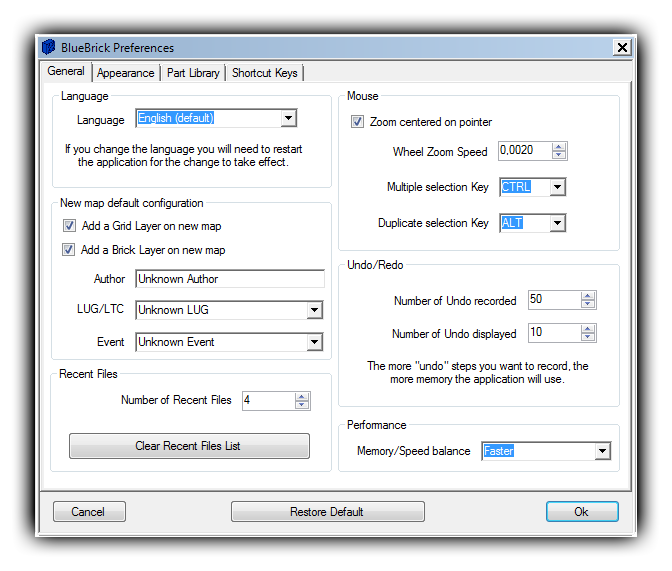
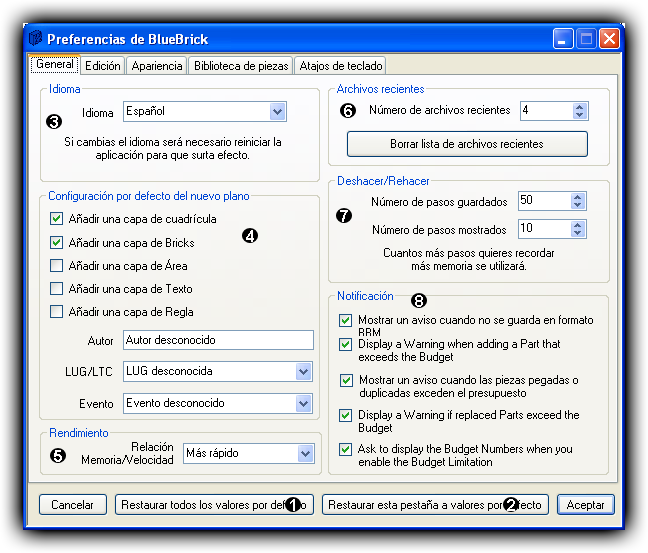
| update the generales preferences text and screenshot (all languages)

diff --git a/Help/fr/Preferences_General.htm b/Help/fr/Preferences_General.htm
@@ -10,18 +10,19 @@
 </head>
 <body>
 <h1>Préférences Générales</h1>
-<br>
 <center><img src="Preferences_General.png"></center>
 
-<p>La <b>Langue du logiciel</b>peut être changer dans le coin supérieur gauche. Le changement sera effectif pour presque tout le texte dans le logiciel. Vous devez cependant redémarrer BlueBrick afin que votre choix prenne effet. Les items qui ne sont pas affectés sont les onglets au dessus du panneau de pièces et les fenêtres qui dépendent de la langue de votre système d'exploitation (i.e. la palette de sélection des couleurs).</p>
+<p>La <b>Langue du logiciel</b> <font class="RefNumber">3</font> peut être changée dans le coin supérieur gauche. Le changement sera effectif pour presque tout les textes du logiciel. Vous devez cependant redémarrer BlueBrick afin que votre choix prenne effet. Les items qui ne sont pas affectés sont les onglets au dessus du panneau de pièces et les fenêtres qui dépendent de la langue de votre système d'exploitation (par exemple la palette de sélection des couleurs).</p>
 
-<p>Sauvegarder votre <b>Configuration par défaut</b> personnalise pour de nouveau plan peut vous faire économiser du temps pour vos prochain projets. Un calque de pièces et une grille sont ajouter par défaut. Pour changer les paramètres pour les champs Auteur, LUG/LTC et exposition dans un plan existant cliquez sur <font CLASS="path">&nbsp;vue &gt; informations générales...&nbsp;</font>.</p>
+<p>Choisir votre <b>Configuration par défaut</b> <font class="RefNumber">4</font> pour de nouveaux plans peut vous faire économiser du temps pour vos prochain projets. Un calque de pièces et une grille sont ajoutés par défaut. Vous pouvez entrer votre nom, le LUG/LTC auquel vous appartenez, et votre exposition favorite, de sorte que, chaque fois que vous créez un plan, ces informations seront affichées en filigrane dans le coin inférieur droit de votre plan. Pour changer les paramètres pour les champs Auteur, LUG/LTC et exposition dans un plan existant utilisez le menu <font CLASS="path">&nbsp;vue &gt; informations générales...&nbsp;</font>.</p>
 
-<p>La liste de <b>Fichiers Récents</b> est de 4 par défaut. Elle peut être augmenter jusqu’à un maximum de 20. Vous pouvez vider la liste en utilisant le bouton "Clear Recent File List" à n'importe quel moment. Notez que la liste une fois efface ne peut être rétablie.</p>
+<p>L'ajustement des <b>Performances</b> <font class="RefNumber">5</font> peut être important pour les ordinateurs moins récents. L'option "Rapide" est sélectionné par défaut. Vous pouvez changer celui-ci pour "Moins de mémoire" si vous notez que votre système devient plus lent ou instable durant l'utilisation. La majorité des ordinateurs devraient être capable de fonctionner en mode "Equilibré" ou "Rapide".</p>
 
-<p>La longueur de la liste <b>Annuler et Rétablir</b>peut être ajuste. Le maximum d'actions enregistrées est de 1000. Le nombre maximum d'action afficher est de 50. Prenez note que plus grande est le nombre d'opérations enregistrées, plus grande est la quantité de mémoire requise par le logiciel.</p>
+<p>La liste de <b>Fichiers Récents</b> <font class="RefNumber">6</font> est de 4 par défaut. Elle peut être augmentée jusqu’à un maximum de 20. Vous pouvez vider la liste en utilisant le bouton "Vider la liste des fichiers récents" à n'importe quel moment. Notez que la liste une fois éffacée ne peut être rétablie.</p>
 
-<p>L'ajustement des <b>Performances</b> peut être important pour les ordinateurs moins récents. L'options "balanced" est sélectionné par défaut. Vous pouvez changer celui-ci pour "Less Memory" si vous notez que votre système devient plus lent ou instable durant l'utilisation. La majorité des ordinateurs devraient être capable de fonctionner en mode "balanced" ou "faster".</p>
+<p>La longueur de la liste <b>Défaire/Refaire</b> <font class="RefNumber">7</font> peut être ajustée. Le maximum d'actions enregistrées est de 1000. Le nombre maximum d'actions affichées est de 50. Prenez note que plus grande est le nombre d'opérations enregistrées, plus grande est la quantité de mémoire requise par le logiciel.</p>
+
+<p>BlueBrick va parfois afficher un message d'avertissement que vous pouvez choisir d'ignorer dans le futur en cochant une case à cocher "d'oubli". Le cadre de <b>Notification</b> <font class="RefNumber">8</font> vous permet de rétablir les messages de notification que vous avez choisi d'ignorer, ou de désactiver quelques notifications à l'avance.</p>
 
 </body>
 </html>

diff --git a/Help/es/Preferences_General.htm b/Help/es/Preferences_General.htm
@@ -10,18 +10,19 @@
 </HEAD>
 <BODY>
 <H1>Preferencias generales</H1>
-<BR>
 <CENTER><IMG SRC="Preferences_General.png"></CENTER>
 
-<P>El <B>idioma del programa</B> se puede cambiar arriba a la izquierda. El cambio afectar&aacute; casi todo el texto del programa. Deber&aacute;s reiniciar BlueBrick para que los cambios tengan efecto.  Los elementos que no e ver&aacute;n afectados por el cambio son las pesta&ntilde;as encima del &aacute;rea de piezas y ventanas que est&aacute;n relacionadas directamente con el idioma de tu sistema operativo (por ejemplo la paleta de selecci&oacute;n colores).</P>
+<P>El <B>idioma del programa</B> <font class="RefNumber">3</font> se puede cambiar arriba a la izquierda. El cambio afectar&aacute; casi todo el texto del programa. Deber&aacute;s reiniciar BlueBrick para que los cambios tengan efecto.  Los elementos que no e ver&aacute;n afectados por el cambio son las pesta&ntilde;as encima del &aacute;rea de piezas y ventanas que est&aacute;n relacionadas directamente con el idioma de tu sistema operativo (por ejemplo la paleta de selecci&oacute;n colores).</P>
 
-<P>Preparar tu <B>Configuraci&oacute;n por defecto</B> para nuevos trazados puede ahorrar tiempo m&aacute;s adelante. Por defecto se a&ntilde;aden una capa de cuadr&iacute;cula y una de ladrillos. Para cambiar la informaci&oacute;n de Autor, LUG/LTC y Evento en un mapa existente ve a<FONT CLASS="path">&nbsp;ver &gt; informaci&oacute;n general...&nbsp;</FONT>.</P>
+<P>Preparar tu <B>Configuraci&oacute;n por defecto</B> <font class="RefNumber">4</font> para nuevos trazados puede ahorrar tiempo m&aacute;s adelante. Por defecto se a&ntilde;aden una capa de cuadr&iacute;cula y una de ladrillos. <div class="ToTranslate">You can set you name, the LUG/LTC you belongs to, and your favorite Event, such as, each time you create a new map, these informations will be displayed as a watermark in the bottom right corner of your map.</div> Para cambiar la informaci&oacute;n de Autor, LUG/LTC y Evento en un mapa existente ve a<FONT CLASS="path">&nbsp;ver &gt; informaci&oacute;n general...&nbsp;</FONT>.</P>
 
-<P>La lista de <B>archivos recientes</B> tiene por defecto 4 entradas. El m&aacute;ximo son 20. Puedes borrar la lista usando el bot&oacute;n &quot;Borrar lista de archivos recientes&quot;. Esta acci&oacute;n no se puede deshacer.</P>
+<P>Los ajustes de <b>rendimiento</b> <font class="RefNumber">5</font> pueden ser importantes para ordenadores m&aacute;s viejos. Por defecto est&aacute; seleccionada la opci&oacute;n &quot;m&aacute;s r&aacute;pido&quot;. Puedes seleccionar la opci&oacute;n &quot;Menos memoria&quot; si notas que el sistema se hace inestable durante su uso. La mayor&iacute;a de ordenadores deber&iacute;an poder usar los modos &quot;equilibrado&quot; o m&aacute;s r&aacute;pido&quot;</P>
 
-<P>La lista de deshacer/rehacer se puede ajustar. El n&uacute;mero m&aacute;ximo de acciones a deshacer es de 1000. El n&uacute;mero m&aacute;ximo de acciones mostradas es de 50. Nota que cuanto mayor sea el n&uacute;mero de acciones a deshacer que se graban, m&aacute;s memoria ocupar&aacute; el programa.</P>
+<P>La lista de <B>archivos recientes</B> <font class="RefNumber">6</font> tiene por defecto 4 entradas. El m&aacute;ximo son 20. Puedes borrar la lista usando el bot&oacute;n &quot;Borrar lista de archivos recientes&quot;. Esta acci&oacute;n no se puede deshacer.</P>
 
-<P>Los ajustes de rendimiento pueden ser importantes para ordenadores m&aacute;s viejos. Por defecto est&aacute; seleccionada la opci&oacute;n &quot;Equilibrado&quot;. Puedes seleccionar la opci&oacute;n &quot;Menos memoria&quot; si notas que el sistema se hace inestable durante su uso. La mayor&iacute;a de ordenadores deber&iacute;an poder usar los modos &quot;equilibrado&quot; o m&aacute;s r&aacute;pido&quot;</P>
+<P>La lista de <b>deshacer/rehacer</b> <font class="RefNumber">7</font> se puede ajustar. El n&uacute;mero m&aacute;ximo de acciones a deshacer es de 1000. El n&uacute;mero m&aacute;ximo de acciones mostradas es de 50. Nota que cuanto mayor sea el n&uacute;mero de acciones a deshacer que se graban, m&aacute;s memoria ocupar&aacute; el programa.</P>
+
+<p>BlueBrick will sometimes popup a warning notification message that you can choose to ignore in the future by checking a "forget" checkbox. The <b>Notification</b> frame <font class="RefNumber">8</font> let you re-enable the notification message you have chosen to ignore, or disable some notification upfront.</p>
 
 </BODY>
 </HTML>

diff --git a/Help/de/Preferences_General.htm b/Help/de/Preferences_General.htm
@@ -8,18 +8,19 @@
 </HEAD>
 <BODY>
 <H1>Allgemeine Einstellungen</H1>
-<BR>
 <CENTER><IMG SRC="Preferences_General.png"></CENTER>
 
-<P>Die <B>Sprache</B> kann oben links geändert werden. Diese Änderung betrifft nahezu das gesamte Programm. Nach der Änderung muss BlueBrick neu gestartet werden, damit BlueBrick in der gewählten Sprache erscheint. Unverändert bleiben lediglich die Namen der Karteireiter der Teileliste im Fenster oben rechts. Auch Fenster, die zur im Betriebssystem eingestellten Sprache verknüpft sind, wie z.B. die Farbtabelle, bleiben unverändert.</P>
+<P>Die <B>Sprache</B> <font class="RefNumber">3</font> kann oben links geändert werden. Diese Änderung betrifft nahezu das gesamte Programm. Nach der Änderung muss BlueBrick neu gestartet werden, damit BlueBrick in der gewählten Sprache erscheint. Unverändert bleiben lediglich die Namen der Karteireiter der Teileliste im Fenster oben rechts. Auch Fenster, die zur im Betriebssystem eingestellten Sprache verknüpft sind, wie z.B. die Farbtabelle, bleiben unverändert.</P>
 
-<P>Durch die Einstellung der <B>Standardeinstellung für neue Karten</B> kann man bei der Erstellung neuer Gleispläne Zeit einsparen. Eine Rasterebene und eine Steinebene sind als Standard voreingestellt. Um den Autor, LUG/LTC und Verantstaltung in einem bereits existierenden Gleisplan zu ändern, muss man ins Menü <FONT CLASS="path">&nbsp;Ansicht &gt; Allgemeine Information...&nbsp;</FONT>gehen.</P>
+<P>Durch die Einstellung der <B>Standardeinstellung für neue Karten</B> <font class="RefNumber">4</font> kann man bei der Erstellung neuer Gleispläne Zeit einsparen. Eine Rasterebene und eine Steinebene sind als Standard voreingestellt. <div class="ToTranslate">You can set you name, the LUG/LTC you belongs to, and your favorite Event, such as, each time you create a new map, these informations will be displayed as a watermark in the bottom right corner of your map.</div> Um den Autor, LUG/LTC und Verantstaltung in einem bereits existierenden Gleisplan zu ändern, muss man ins Menü <FONT CLASS="path">&nbsp;Ansicht &gt; Allgemeine Information...&nbsp;</FONT>gehen.</P>
 
-<P>Die <B>Anzahl der zuletzt benutzten Dateien</B> ist standardmäßig auf 4 gesetzt, 20 ist maximal möglich. Diese Liste kann mit der Schaltfläche "Liste der zuletzt benutzten Dateien leeren" jederzeit gelöscht werden. Dieses Löschen kann nicht rückgängig gemacht werden.</P>
+<P>Die <B>Leistungs-</B>Einstellungen <font class="RefNumber">5</font> könnten für ältere Computer wichtig sein. Voreingestellt ist "Schneller". Wenn BlueBrick während der Benutzung instabil wird, sollte die Einstellung "weniger Speicher" benutzt werden. Die meisten Computer arbeiten auch mit den Einstellungen "ausgeglichen" oder "schneller" einwandfrei.</P>
 
-<P>Die Liste <B>Rückgängig / Wiederherstellen</B> kann ebenfalls eingestellt werden. Maximal 1000 Schritte können gespeichert und damit rückgängig gemacht werden. Maximal 50 Schritte können angezeigt werden. Je größer die Anzahl der gespeicherten Schritte ist, desto mehr Speicherplatz benötigt BlueBrick.</P>
+<P>Die <B>Anzahl der zuletzt benutzten Dateien</B> <font class="RefNumber">6</font> ist standardmäßig auf 4 gesetzt, 20 ist maximal möglich. Diese Liste kann mit der Schaltfläche "Liste der zuletzt benutzten Dateien leeren" jederzeit gelöscht werden. Dieses Löschen kann nicht rückgängig gemacht werden.</P>
 
-<P>Die <B>Leistungs-</B>Einstellungen könnten für ältere Computer wichtig sein. Voreingestellt ist "ausgeglichen". Wenn BlueBrick während der Benutzung instabil wird, sollte die Einstellung "weniger Speicher" benutzt werden. Die meisten Computer arbeiten auch mit den Einstellungen "ausgeglichen" oder "schneller" einwandfrei.</P>
+<P>Die Liste <B>Rückgängig / Wiederherstellen</B> <font class="RefNumber">7</font> kann ebenfalls eingestellt werden. Maximal 1000 Schritte können gespeichert und damit rückgängig gemacht werden. Maximal 50 Schritte können angezeigt werden. Je größer die Anzahl der gespeicherten Schritte ist, desto mehr Speicherplatz benötigt BlueBrick.</P>
+
+<p>BlueBrick will sometimes popup a warning notification message that you can choose to ignore in the future by checking a "forget" checkbox. The <b>Notification</b> frame <font class="RefNumber">8</font> let you re-enable the notification message you have chosen to ignore, or disable some notification upfront.</p>
 
 </BODY>
 </HTML>

diff --git a/Help/en/Preferences_General.htm b/Help/en/Preferences_General.htm
@@ -1,25 +1,26 @@
-<HTML>
-<HEAD>
-<META NAME="keywords" CONTENT="BlueBrick, Help">
-<META NAME="description" CONTENT="The reference documentation for BlueBrick.">
-<META NAME="author" CONTENT="Alex McKenna">
-<LINK REL=StyleSheet HREF="../BlueBrick.css" TYPE="text/css" MEDIA=screen>
-<Title>General Preferences</Title>
-</HEAD>
-<BODY>
-<H1>General Preferences</H1>
-<BR>
-<CENTER><IMG SRC="Preferences_General.png"></CENTER>
+<html>
+<head>
+<meta name="keywords" content="BlueBrick, Help">
+<meta name="description" content="The reference documentation for BlueBrick.">
+<meta name="author" content="Alex McKenna">
+<link rel="StyleSheet" href="../BlueBrick.css" type="text/css" media="screen">
+<title>General Preferences</title>
+</head>
+<body>
+<h1>General Preferences</H1>
+<center><img src="Preferences_General.png"></center>
 
-<P>The <B>Program Language</B> can be changed at the top left. The change will affect almost all the text occurrences in the program. You must restart BlueBrick for the changes to take effect.  Items which are not affected by the change are the tabs over the parts pane, and windows which are linked directly to the language of your OS (eg. color selection palette).</P>
+<p>The <b>Program Language</b> <font class="RefNumber">3</font> can be changed at the top left. The change will affect almost all the text occurrences in the program. You must restart BlueBrick for the changes to take effect. Items which are not affected by the change are the tabs over the parts pane, and windows which are linked directly to the language of your OS (eg. color selection palette).</p>
 
-<P>Setting your <B>Default Configurations</B> for new maps can save time at a later stage. One grid and brick layer are added as default. To change the entries for Author, LUG/LTC and Show in an existing map go to the <FONT CLASS="path">&nbsp;edit &gt; general information...&nbsp;</FONT>.</P>
+<p>Setting your <b>Default Configurations</b> <font class="RefNumber">4</font> for new maps can save time at a later stage. One grid and brick layer are added as default. You can set you name, the LUG/LTC you belongs to, and your favorite Event, such as, each time you create a new map, these informations will be displayed as a watermark in the bottom right corner of your map. To change the entries for Author, LUG/LTC and Event in an existing map go to the <font class="path">&nbsp;edit &gt; general information...&nbsp;</font>.</P>
 
-<P>The <B>Recent Files List</B> is set to 4 as default. 20 is the maximum. You can clear the list using the "Clear Recent File List" button at any time. Note that this action can not be undone.</P>
+<p>The <b>Performance</b> <font class="RefNumber">5</font> settings might be important for older computers. The "Faster" setting is chosen as default. You may choose the "Less Memory" option if you notice that you system becomes unstable during use. Most computers should be able to run in the "balanced" or "faster" modes.</p>
 
-<P>The <B>Undo/Redo</B> lists can be adjusted. The maximum number of undo's recorded is 1000. The maximum number displayed is 50. Note that the larger the number of undo's recorded, the more memory the application will need.</P>
+<p>The <b>Recent Files List</b> <font class="RefNumber">6</font> is set to 4 as default. 20 is the maximum. You can clear the list using the "Clear Recent File List" button at any time. Note that this action can not be undone.</p>
 
-<P>The <B>Performance</B> settings might be important for older computers. The "balanced" setting is chosen as default. You may choose the "Less Memory" option if you notice that you system becomes unstable during use. Most computers should be able to run in the "balanced" or "faster" modes.</P>
+<p>The <b>Undo/Redo</b> <font class="RefNumber">7</font> lists can be adjusted. The maximum number of undo's recorded is 1000. The maximum number displayed is 50. Note that the larger the number of undo's recorded, the more memory the application will need.</p>
 
-</BODY>
-</HTML>
+<p>BlueBrick will sometimes popup a warning notification message that you can choose to ignore in the future by checking a "forget" checkbox. The <b>Notification</b> frame <font class="RefNumber">8</font> let you re-enable the notification messages you have chosen to ignore, or disable some notification upfront.</p>
+
+</body>
+</html>
